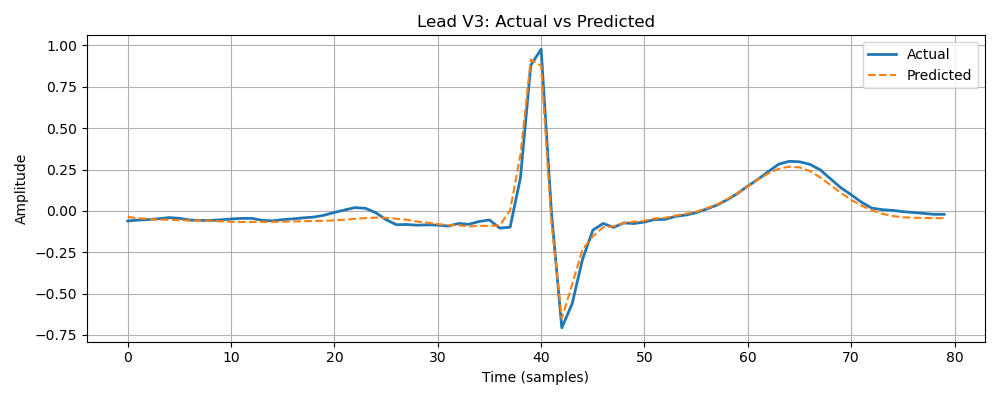
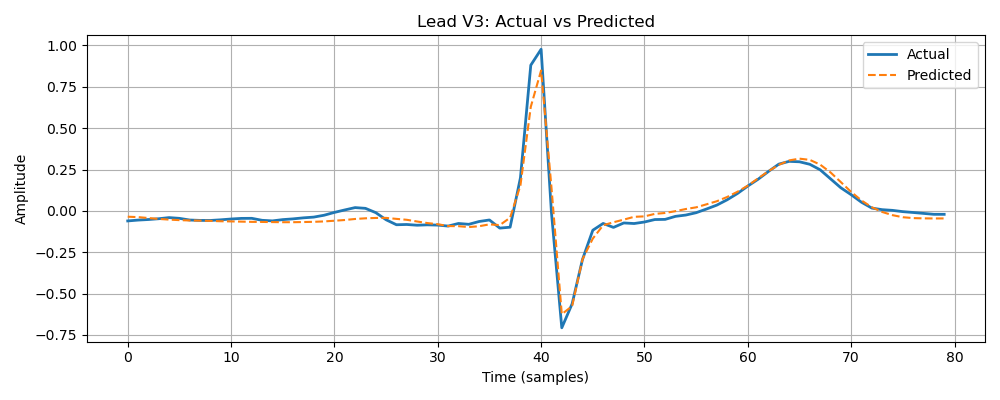
Input: I, II, V2. Focusing on all superclasses

diff --git a/QRS_to_Multilead_Reconstruction/PQRST_Stats_Segment_Extractor.py b/QRS_to_Multilead_Reconstruction/PQRST_Stats_Segment_Extractor.py
@@ -86,7 +86,6 @@ def find_qspt(signal, r_peaks, sampling_rate):
 
 def build_dataset_with_stats(ecg_dataset, meta_df):
     dataset = []
-    meta_df = meta_df[meta_df.get("superclasses_NORM", 0) == 1].reset_index(drop=True)
 
     for i, sample in enumerate(tqdm(ecg_dataset, desc="Building dataset with stats (80 samples)")):
         if i >= len(meta_df):
